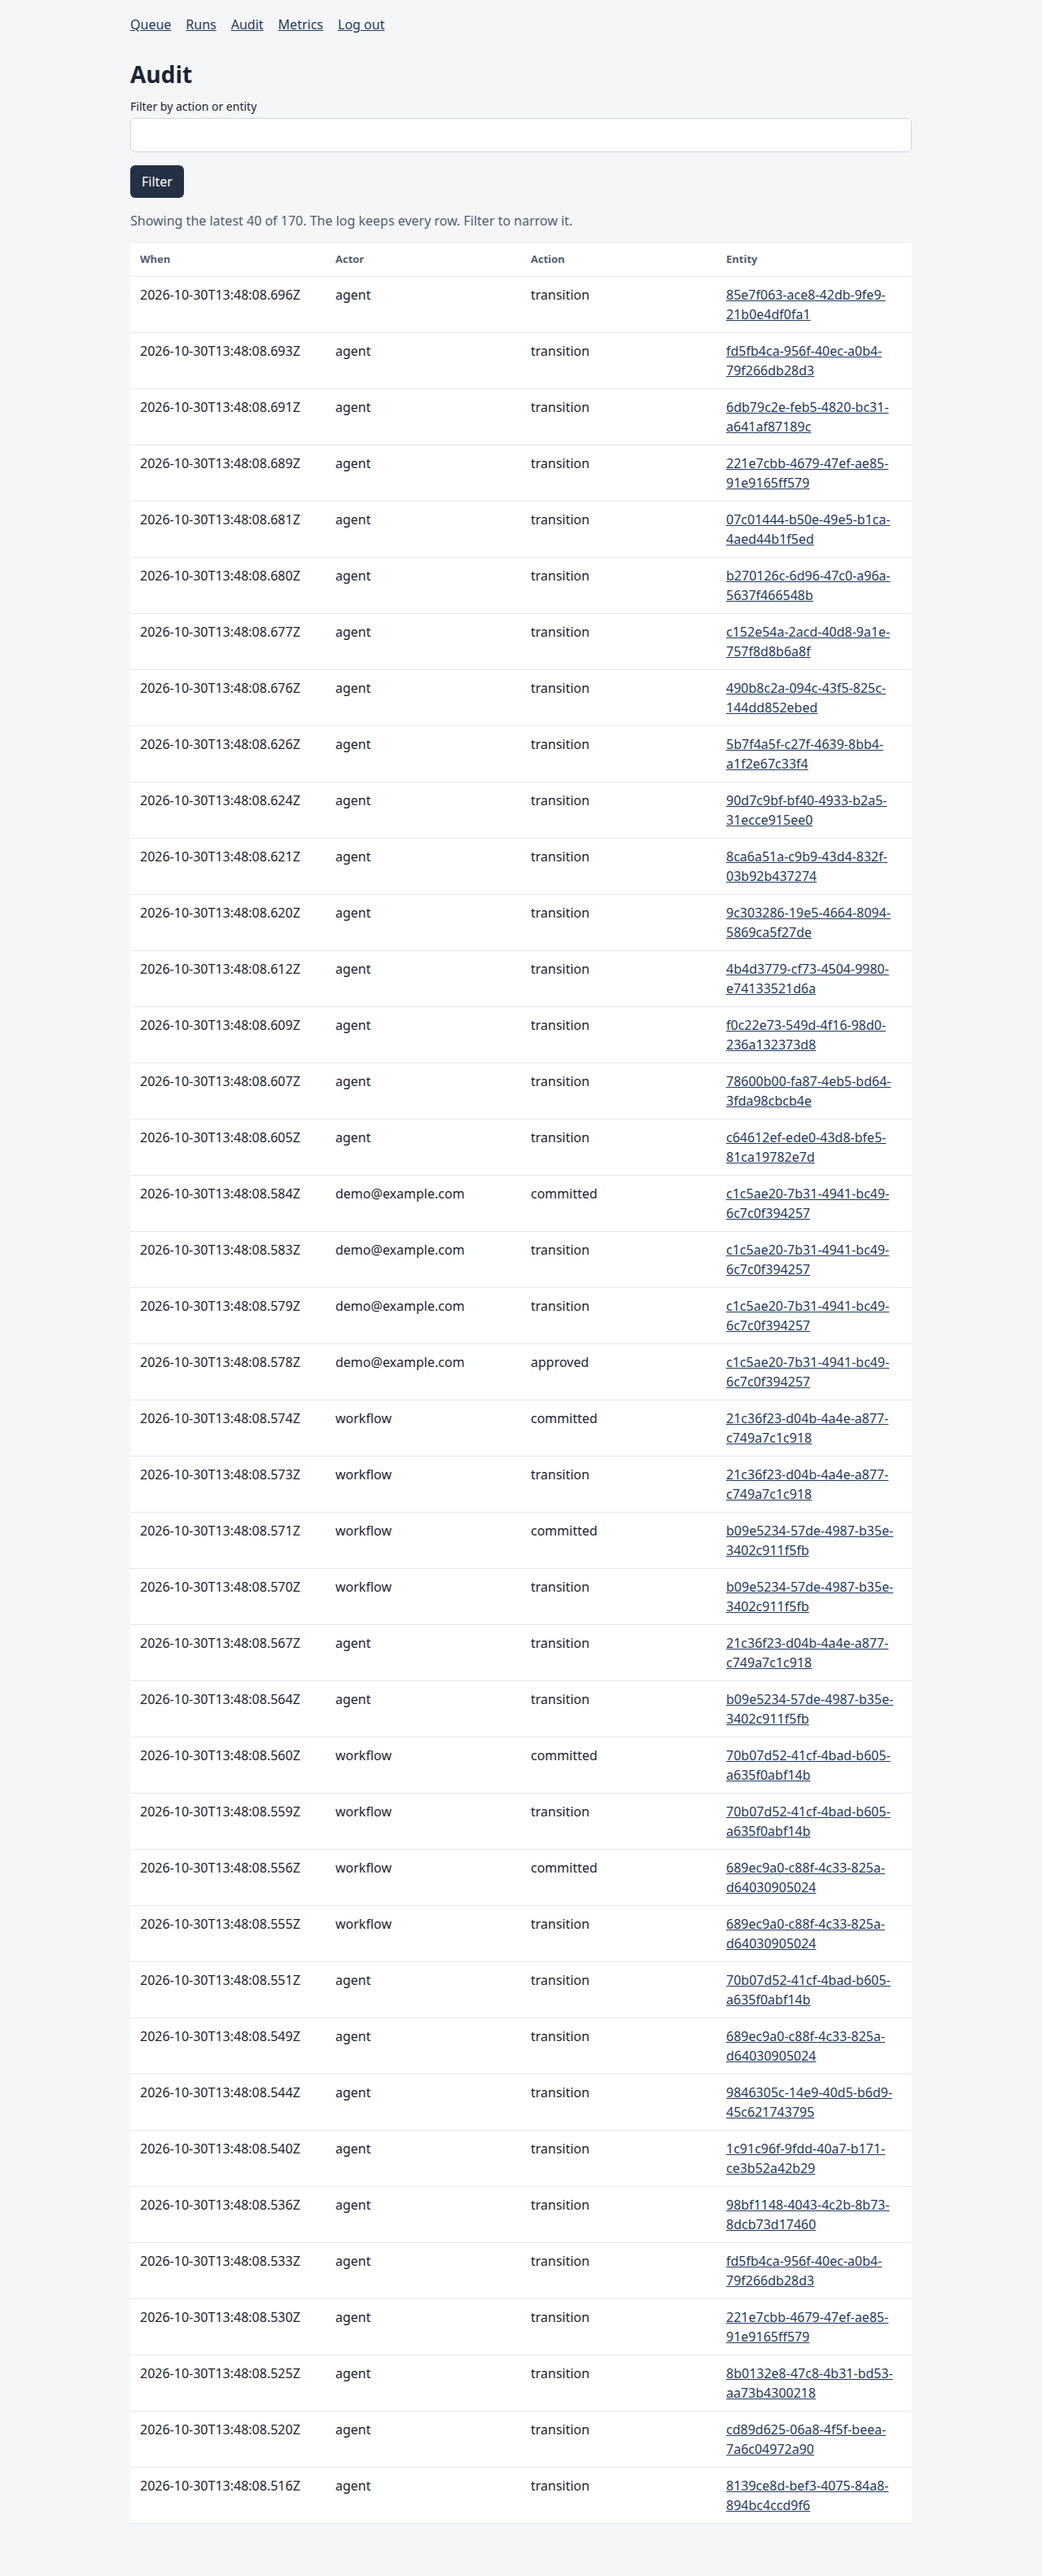
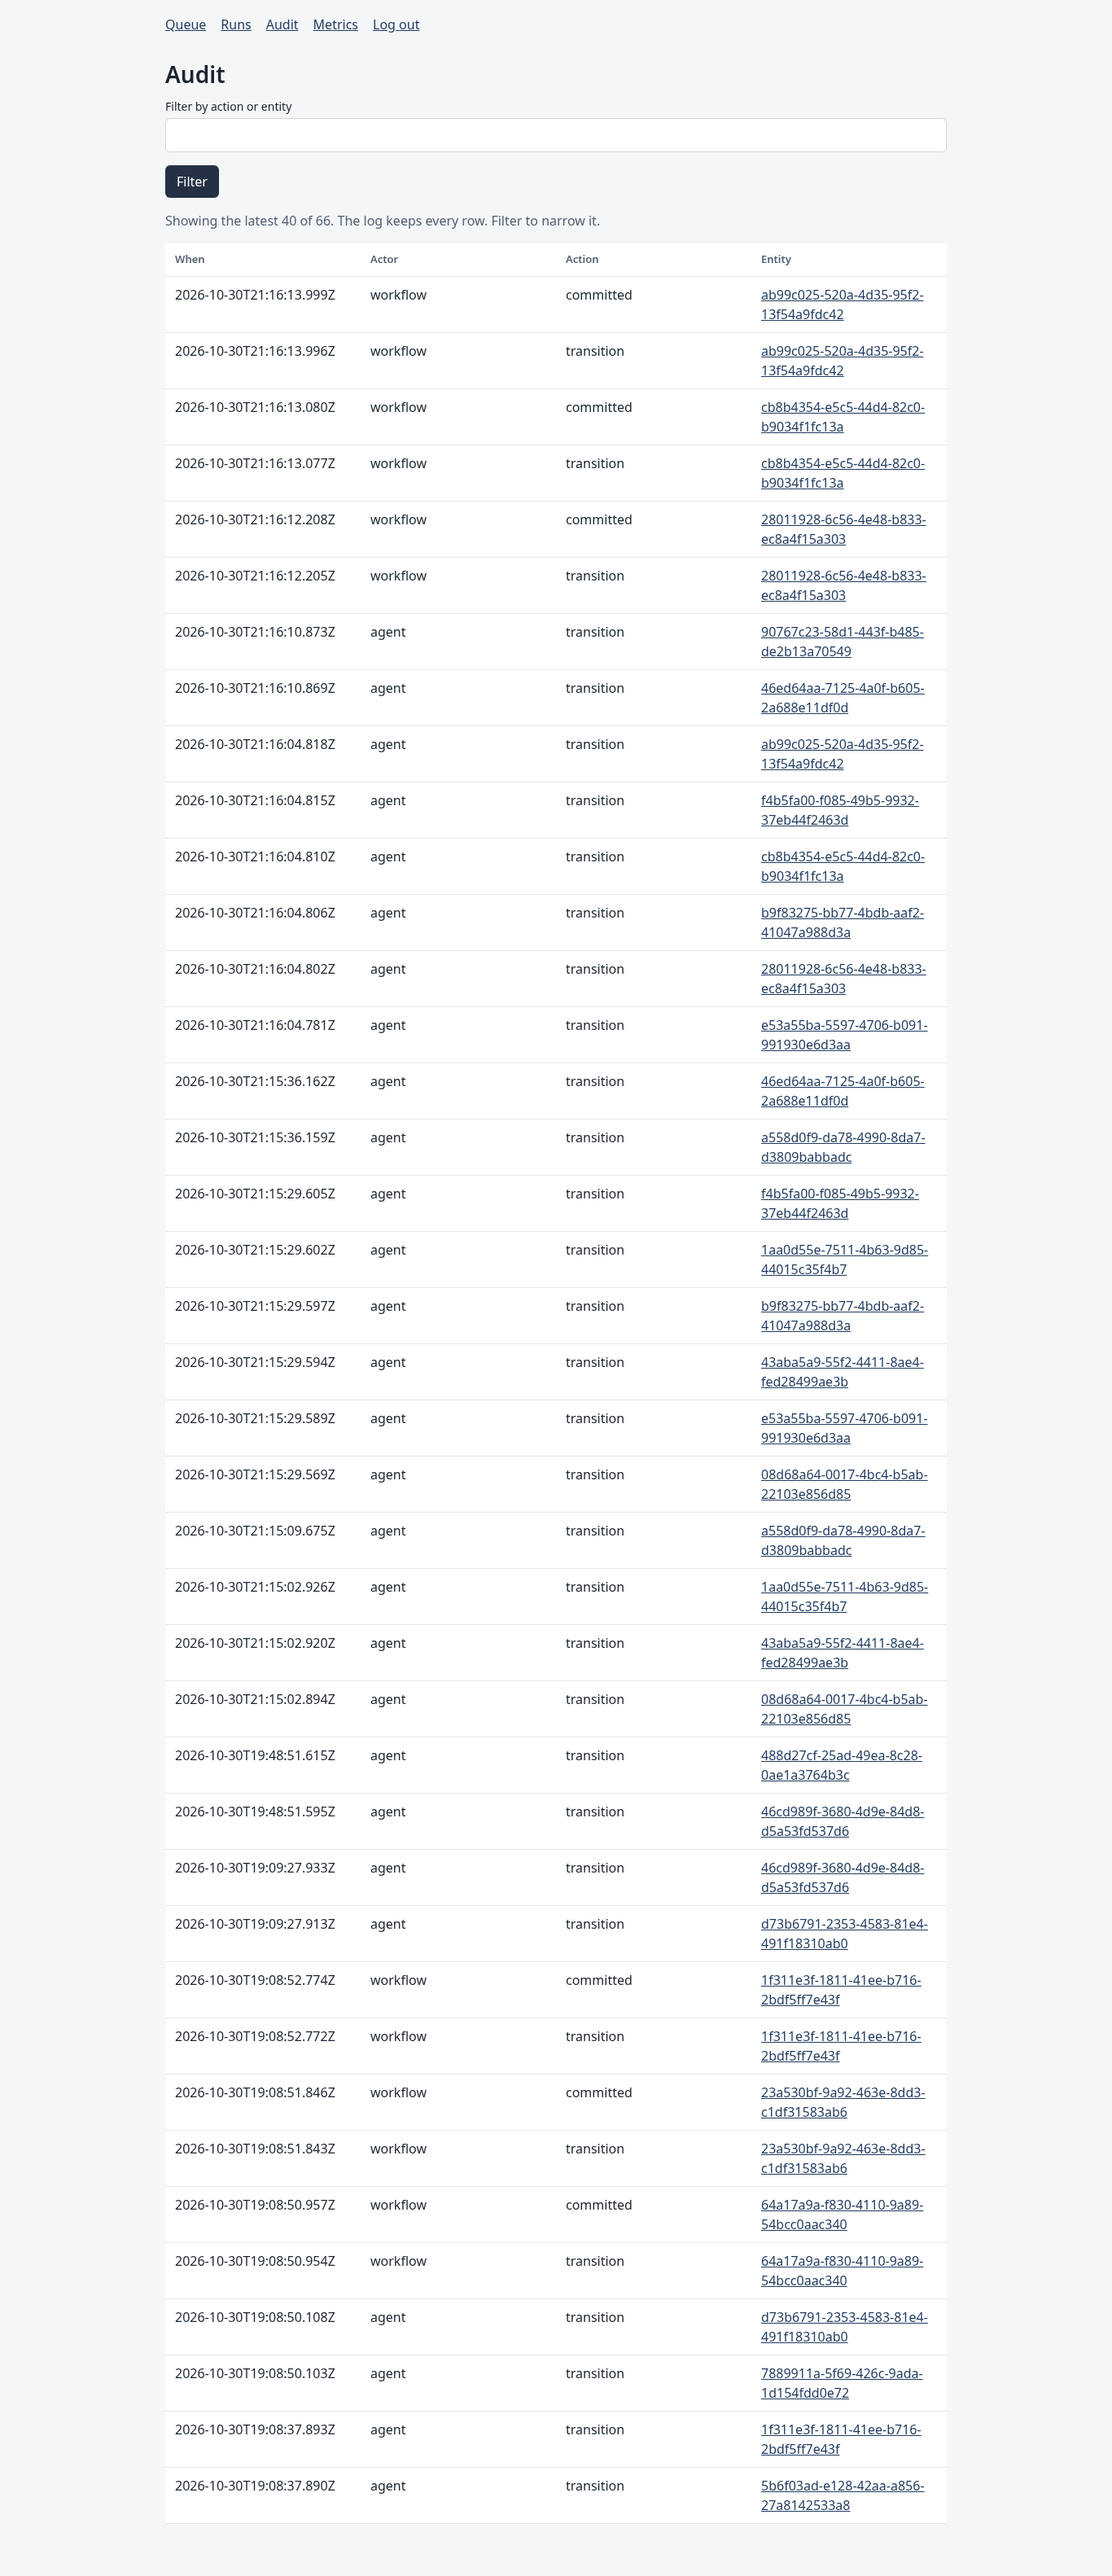
Prepare the repo for public: refresh screenshots, keep demo:mock off tracked fixtures, add MIT license and a secret scan.

diff --git a/packages/seed/src/seed.test.ts b/packages/seed/src/seed.test.ts
@@ -1,6 +1,6 @@
-import { readFile } from 'node:fs/promises';
-import { dirname, resolve } from 'node:path';
-import { fileURLToPath } from 'node:url';
+import { mkdtemp, readFile, rm } from 'node:fs/promises';
+import { tmpdir } from 'node:os';
+import { join } from 'node:path';
 import { describe, expect, it } from 'vitest';
 import { loadScoringRules } from '@cs-agent/config';
 import { daysBetween, frozenClock, parseHubspotDate, SIGNAL_KEYS, type Signal } from '@cs-agent/core';
@@ -402,14 +402,18 @@ describe('fictional Harborboard seed', () => {
     expect(database.companies.some((company) => company.id.startsWith('hist-'))).toBe(false);
   });
 
-  it('writes pretty fixtures next to the repo', async () => {
-    const dir = resolve(dirname(fileURLToPath(import.meta.url)), '../../../fixtures');
-    await writeFixtures(clock);
-    const seedText = await readFile(resolve(dir, 'seed.json'), 'utf8');
-    const expectedText = await readFile(resolve(dir, 'expected.json'), 'utf8');
-    expect(seedText.endsWith('\n')).toBe(true);
-    expect(seedText).toContain('\n  "vendor"');
-    expect(JSON.parse(seedText)).toEqual(database);
-    expect(JSON.parse(expectedText)).toEqual(expected);
+  it('writes pretty seed and expected JSON', async () => {
+    const dir = await mkdtemp(join(tmpdir(), 'seed-fixtures-'));
+    try {
+      await writeFixtures(clock, dir);
+      const seedText = await readFile(join(dir, 'seed.json'), 'utf8');
+      const expectedText = await readFile(join(dir, 'expected.json'), 'utf8');
+      expect(seedText.endsWith('\n')).toBe(true);
+      expect(seedText).toContain('\n  "vendor"');
+      expect(JSON.parse(seedText)).toEqual(database);
+      expect(JSON.parse(expectedText)).toEqual(expected);
+    } finally {
+      await rm(dir, { recursive: true, force: true });
+    }
   });
 });

diff --git a/apps/cli/src/demo.ts b/apps/cli/src/demo.ts
@@ -5,13 +5,12 @@ import { loadDotEnv, repoRoot } from '@cs-agent/config';
 import { decideApproval } from '@cs-agent/approvals';
 import { runWorkflow } from '@cs-agent/workflows';
 import { loadRuntimeConfig, systemClock } from './runtime.js';
-import { buildSeed, commitAction, createLedger, createLlm, openMockHubSpot, writeFixtures } from './services.js';
+import { buildSeed, commitAction, createLedger, createLlm, openMockHubSpot } from './services.js';
 
 /** One fresh file ledger so the second sweep is idempotent and `pnpm cs serve` can show the queue. */
 export async function runDemo(): Promise<void> {
   const clock = systemClock;
   const { database } = buildSeed(clock);
-  await writeFixtures(clock);
 
   const hubspot = openMockHubSpot(database);
   const env = withoutKeys(process.env);

diff --git a/docs/demo/screenshots/README.md b/docs/demo/screenshots/README.md
@@ -1,18 +1,18 @@
 # Screenshots
 
-The images in this folder are from the previous book of business. They were not regenerated in the nonprofit reskin. Recreate them against the live portal, or from the mock console with `node scripts/screenshot.mjs`, after `pnpm demo:mock`.
+These images are from the nonprofit reskin. The console shots are from a test-portal run. Timestamps on the pages are UTC.
 
 | File | Page |
 | --- | --- |
-| `01-login.png` | Sign-in. The demo password is on the page. |
-| `02-queue.png` | Queue grouped by client, with band, score, kind, and age. |
-| `03-proposal.png` | One proposal: procedure version, policy rule, action hash, citations, approve / reject / edit. |
-| `04-runs.png` | Two live sweeps. The later one committed nothing new. |
-| `05-run.png` | One run's proposals. |
-| `06-audit.png` | Latest audit rows. The log is append-only. |
+| `01-login.png` | Sign-in. |
+| `02-queue.png` | Queue with one client, Hightide Literacy Fund, at risk, score 43, and one draft outreach awaiting approval. |
+| `03-proposal.png` | A committed create-task proposal for Hightide: procedure `assess-account-risk@1.1.0`, policy rule `tasks_for_the_owner_are_safe` (auto), action hash, idempotency key with the week and band, reasons with HubSpot citations, and the payload. |
+| `04-runs.png` | Renewal-risk-sweep runs in shadow, dry_run, and live, with cost. |
+| `05-run.png` | One live run: 4 proposals, 3 commits, 1 draft awaiting approval, with HubSpot ids. |
+| `06-audit.png` | Latest audit rows. |
 | `07-metrics.png` | Rates and the 25-minute assumption. |
-| `08-queue-mobile.png` | The same queue at a phone width. |
+| `08-hubspot-contact.png` | A contact record in a HubSpot developer test portal for the fictional client. |
 
-Timestamps on the pages are UTC.
+Regenerate the console shots (`01`–`07`) against the live portal, or from the console with `node scripts/screenshot.mjs`, after `pnpm demo:mock`. `08-hubspot-contact.png` is a HubSpot record and is not produced by that script.
 
-HubSpot record screenshots are not in this folder. The list to capture on a test portal is in `docs/demo/real-hubspot-checklist.md`.
+Further HubSpot shots to capture are listed in `docs/demo/real-hubspot-checklist.md`.

diff --git a/README.md b/README.md
@@ -23,7 +23,7 @@ pnpm demo:mock
 pnpm cs serve
 ```
 
-No `.env` is required. With no `.env`, HubSpot is an in-memory `MockHubSpot` seeded from `fixtures/seed.json` (24 fictional nonprofit clients on example.org) and the model is `MockLLM`. Cost is $0. `pnpm demo:mock` builds that seed in memory and writes the file. It still uses those mocks when a HubSpot token or an Anthropic key is set.
+No `.env` is required. With no `.env`, HubSpot is an in-memory `MockHubSpot` seeded from `fixtures/seed.json` (24 fictional nonprofit clients on example.org) and the model is `MockLLM`. Cost is $0. `pnpm demo:mock` builds that seed in memory and does not write the file. It still uses those mocks when a HubSpot token or an Anthropic key is set.
 
 A second sweep makes no new writes. The command prints the accounts, committed, and awaiting counts.
 
@@ -49,3 +49,7 @@ If the token or the Anthropic key is missing, the process says so and uses the m
 - `docs/demo/DEMO-SCRIPT.md` for the 3-minute and 60-second recordings
 - `docs/plan/FIRST-30-DAYS.md` for the engagement plan
 - `docs/explain/` for a spoken explanation of each block
+
+## License
+
+MIT. See LICENSE.

diff --git a/docs/demo/real-hubspot-checklist.md b/docs/demo/real-hubspot-checklist.md
@@ -50,7 +50,7 @@ HubSpot often refuses to create users from the API. The seed maps every owner to
 
 ## Screenshots to take once the portal is connected
 
-Save them next to `docs/demo/screenshots/` when you have them. The console shots in that folder are from the mock demo.
+`docs/demo/screenshots/` already has the console shots from a test-portal run, and `08-hubspot-contact.png` (a contact record for the fictional client). Save the rest in that folder:
 
 - Company properties: `cs_health_score`, `cs_health_band`, `cs_risk_reasons`, `cs_last_assessed_at`, `cs_rules_version`, `cs_agent_last_run_id`
 - The timeline note that starts `CS Agent: set health to`

diff --git a/docs/demo/DEMO-SCRIPT.md b/docs/demo/DEMO-SCRIPT.md
@@ -2,7 +2,7 @@
 
 Record the mock demo. It does not need a HubSpot token. Say the times out loud as America/New_York only if you add a lower-third; the console itself prints UTC.
 
-Console shots for this cut are in `docs/demo/screenshots/`. HubSpot shots wait on a token; the checklist lists them.
+Console shots for this cut are in `docs/demo/screenshots/` (`01-login.png` through `07-metrics.png`), from a test-portal run. `08-hubspot-contact.png` is a contact record from a HubSpot developer test portal. The checklist lists the HubSpot shots still to capture.
 
 ## Before you record
 

diff --git a/docs/explain/README.md b/docs/explain/README.md
@@ -1,6 +1,6 @@
 # Explain it in 30 seconds
 
-One block, one breath. The interview answers are in `INTERVIEW.md`.
+One block, one breath.
 
 ## Core
 
